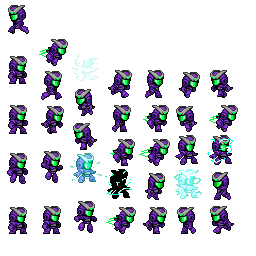
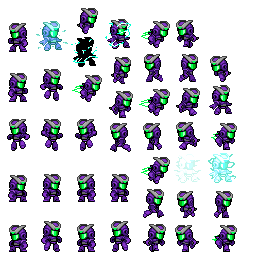
Added directional animations, left and right animations are different

diff --git a/source/core/src/main/com/csse3200/game/components/player/PlayerAnimationController.java b/source/core/src/main/com/csse3200/game/components/player/PlayerAnimationController.java
@@ -8,7 +8,7 @@ public class PlayerAnimationController extends Component {
     AnimationRenderComponent animator;
     PlayerActions actions;
     private String currentAnimation = "";
-    private Vector2 direction;
+    private int xDirection = 1;
 
     @Override
     public void create() {
@@ -24,24 +24,38 @@ public class PlayerAnimationController extends Component {
     }
 
     void animateStop() {
-        animator.startAnimation("IDLE");
+        if (xDirection == 1) {
+            animator.startAnimation("IDLE");
+        } else if (xDirection == -1) {
+            animator.startAnimation("IDLELEFT");
+        }
     }
 
     void animateJump() {
-        setAnimation("JUMP");
+        if (xDirection == 1) {
+            setAnimation("JUMP");
+        } else if (xDirection == -1) {
+            setAnimation("JUMPLEFT");
+        }
     }
 
     void animateWalk(Vector2 direction) {
         if (direction.x > 0f) {
             setAnimation("RIGHT");
+            xDirection = 1;
         } else if (direction.x < 0f) {
             setAnimation("LEFT");
+            xDirection = -1;
         }
     }
 
     void animateCrouching() {
         if (actions.getIsCrouching()) {
-            animator.startAnimation("CROUCH");
+            if (xDirection == 1) {
+                animator.startAnimation("CROUCH");
+            } else if (xDirection == -1) {
+                animator.startAnimation("CROUCHLEFT");
+            }
         } else {
             animator.startAnimation("IDLE");
         }

diff --git a/source/core/src/main/com/csse3200/game/entities/factories/PlayerFactory.java b/source/core/src/main/com/csse3200/game/entities/factories/PlayerFactory.java
@@ -60,10 +60,13 @@ public class PlayerFactory {
             new AnimationRenderComponent(
                     ServiceLocator.getResourceService().getAsset("images/PLAYER.atlas", TextureAtlas.class));
     animator.addAnimation("CROUCH", 0.1f, Animation.PlayMode.LOOP);
+    animator.addAnimation("CROUCHLEFT", 0.1f, Animation.PlayMode.LOOP);
     animator.addAnimation("JUMP", 0.1f, Animation.PlayMode.LOOP);
+    animator.addAnimation("JUMPLEFT", 0.1f, Animation.PlayMode.LOOP);
     animator.addAnimation("LEFT", 0.1f, Animation.PlayMode.LOOP);
     animator.addAnimation("RIGHT", 0.1f, Animation.PlayMode.LOOP);
     animator.addAnimation("IDLE", 0.2f, Animation.PlayMode.LOOP);
+    animator.addAnimation("IDLELEFT", 0.2f, Animation.PlayMode.LOOP);
 
 
     Entity player =
